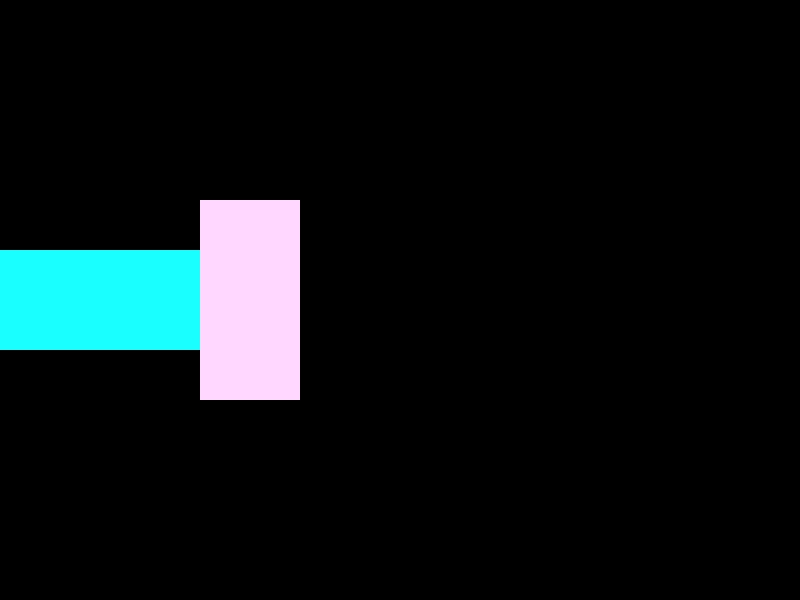
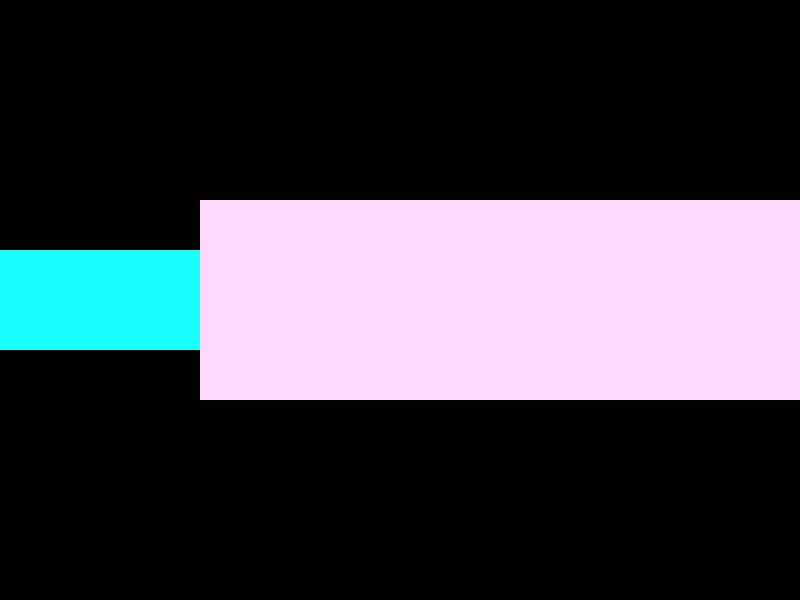
Adjust the template of server

Changed region(s): [[0.375, 0.33, 1.0, 0.69]]

diff --git a/week07/toy-browser/server.js b/week07/toy-browser/server.js
@@ -17,8 +17,7 @@ const template = `
         background-color: rgb(25,255,255);
       }
       .demo2 {
-        display: flex;
-        width: 100px;
+        flex: 1;
         height: 200px;
         background-color: rgb(255,215,255);
       }
